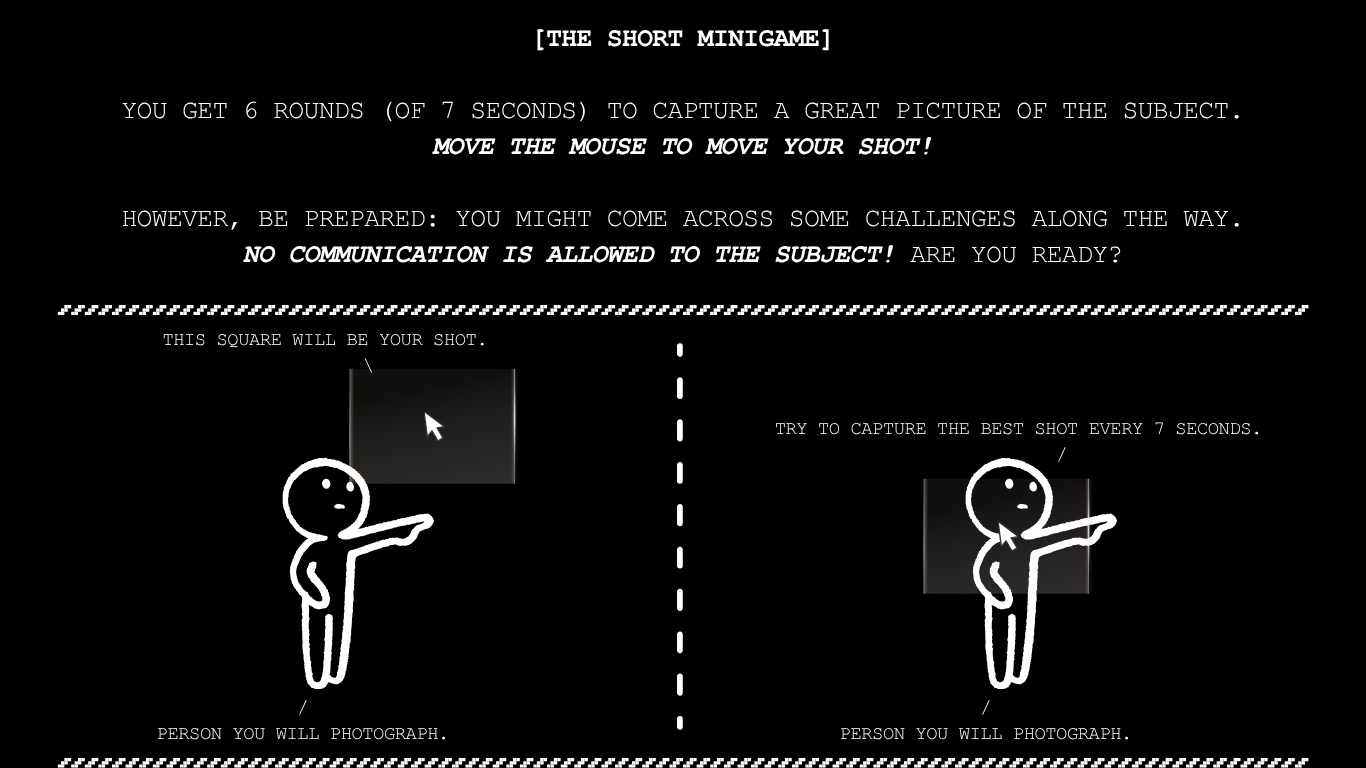
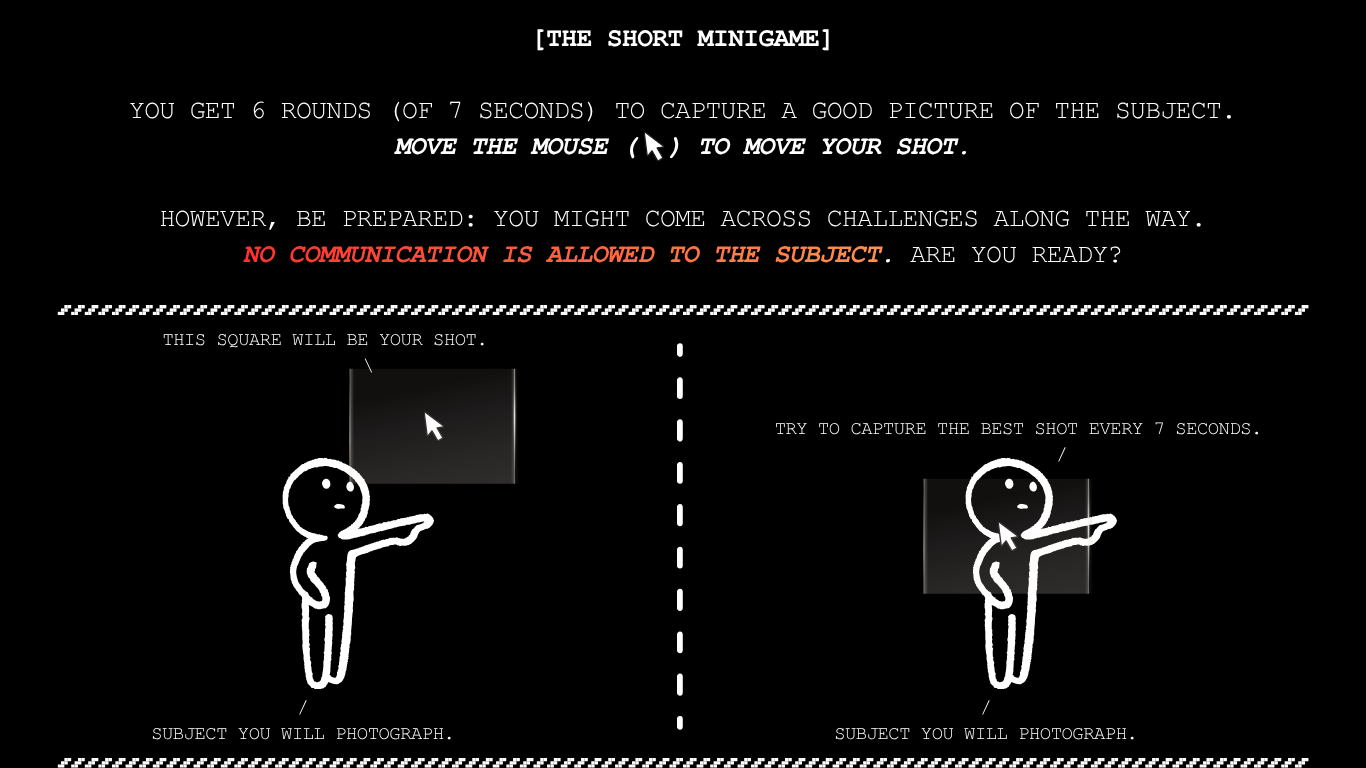
+ FINAL TOUCHES.

diff --git a/controller.css b/controller.css
@@ -205,3 +205,81 @@ button:hover{
 #nameInput::placeholder{
     opacity:0.3;
 }
+
+/* =========================
+   EINDSCHERM (zelfde als experiencer)
+========================= */
+#endScreen{
+    position:fixed;
+    inset:0;
+    background:black;
+    display:none;
+    flex-direction:column;
+    justify-content:center;
+    align-items:center;
+    z-index:20000;
+    transition:background-color 2s ease;
+}
+
+#endScreen:not(.hidden){
+    display:flex;
+}
+
+#endPolaroids{
+    display:grid;
+    grid-template-columns:repeat(3, auto);
+    justify-content:center;
+    align-items:center;
+    gap:20px;
+    margin-bottom:2.5rem;
+}
+
+.polaroid{
+    background:white;
+    padding:10px 10px 32px 10px;
+    box-shadow:0 4px 24px rgba(0,0,0,0.7), 0 1px 4px rgba(0,0,0,0.4);
+}
+
+.polaroid img{
+    display:block;
+    width:140px;
+    height:auto;
+    object-fit:contain;
+    filter:contrast(1.05) brightness(0.92);
+}
+
+#endPolaroids .polaroid{
+    position:static;
+    opacity:0;
+    animation:polaroidFadeIn 0.6s ease forwards;
+    transform:rotate(var(--rot));
+}
+
+@keyframes polaroidFadeIn{
+    0%{   opacity:0; transform:translateY(20px) rotate(var(--rot)); }
+    100%{ opacity:1; transform:translateY(0) rotate(var(--rot)); }
+}
+
+#endText{
+    color:black;
+    font-family:'Courier New', monospace;
+    font-size:1rem;
+    letter-spacing:0.3rem;
+    text-transform:uppercase;
+    text-align:center;
+    opacity:0;
+    transition:opacity 1.5s ease;
+}
+
+#endCredit{
+    color:black;
+    font-family:'Courier New', monospace;
+    font-size:0.75rem;
+    letter-spacing:0.2rem;
+    text-transform:uppercase;
+    text-align:center;
+    opacity:0;
+    transition:opacity 1.5s ease;
+    margin-top:0.5rem;
+    font-style:italic;
+}

diff --git a/controller.js b/controller.js
@@ -78,6 +78,10 @@ const introScreen = document.getElementById("introScreen");
 const waitScreen = document.getElementById("waitScreen");
 const controllerScreen = document.getElementById("controllerScreen");
 const doneScreen = document.getElementById("doneScreen");
+const endScreen = document.getElementById("endScreen");
+const endPolaroids = document.getElementById("endPolaroids");
+const endText = document.getElementById("endText");
+const endCredit = document.getElementById("endCredit");
 
 const messageInput = document.getElementById("messageInput");
 const messageBtn = document.getElementById("messageBtn");
@@ -138,9 +142,9 @@ const JITTER_PROFILES = {
 
     // --- 3 extremere ---
     snappy: { maxOffset: 0.18, velKick: 0.055, damp: 0.85, pull: 0.945, smooth: 0.30, intMin: 0.60, intMax: 1.30, changeMin: 600,  changeVar: 1100 },
-    extreme:{ maxOffset: 0.40, velKick: 0.040, damp: 0.90, pull: 0.958, smooth: 0.22, intMin: 0.80, intMax: 1.60, changeMin: 900,  changeVar: 1600 },
-    // MEGA EXTREEM: schiet super ver, grote trage uithalen naar de randen
-    mega:   { maxOffset: 0.62, velKick: 0.030, damp: 0.93, pull: 0.994, smooth: 0.13, intMin: 0.90, intMax: 1.90, changeMin: 1400, changeVar: 2200 }
+    extreme:{ maxOffset: 0.30, velKick: 0.038, damp: 0.90, pull: 0.952, smooth: 0.22, intMin: 0.70, intMax: 1.30, changeMin: 900,  changeVar: 1600 },
+    // MEGA EXTREEM: schiet ver, grote trage uithalen — maar iets rustiger dan eerst
+    mega:   { maxOffset: 0.46, velKick: 0.028, damp: 0.93, pull: 0.990, smooth: 0.13, intMin: 0.80, intMax: 1.55, changeMin: 1400, changeVar: 2200 }
 };
 
 let jitterProfile = "tipsy";
@@ -149,6 +153,64 @@ onValue(ref(db, "game/jitterLevel"), (snapshot) => {
     const val = snapshot.val();
     if (val && JITTER_PROFILES[val]) jitterProfile = val;
 });
+
+/* =========================
+   EINDSCHERM SYNC
+   Wanneer de experiencer de polaroids met caption + naam toont,
+   krijgt de controller exact hetzelfde beeld.
+========================= */
+let endScreenShown = false;
+
+onValue(ref(db, "game/endScreen"), (snapshot) => {
+    const data = snapshot.val();
+    if (!data || !data.snapshots || endScreenShown) return;
+    endScreenShown = true;
+    showControllerEndScreen(data);
+});
+
+function showControllerEndScreen(data) {
+    const snaps = Array.isArray(data.snapshots)
+        ? data.snapshots
+        : Object.values(data.snapshots);
+    const caption = data.caption || "you are seen by the others.";
+    const name = data.name || "the others";
+
+    controllerScreen.classList.add("hidden");
+    doneScreen.classList.add("hidden");
+
+    endScreen.classList.remove("hidden");
+    endScreen.style.backgroundColor = "black";
+
+    endPolaroids.innerHTML = "";
+    snaps.forEach((dataURL, i) => {
+        const el = document.createElement("div");
+        el.classList.add("polaroid");
+
+        const img = document.createElement("img");
+        img.src = dataURL;
+        el.appendChild(img);
+
+        const rot = (Math.random() * 10 - 5).toFixed(1);
+        el.style.setProperty("--rot", rot + "deg");
+        el.style.animationDelay = (i * 0.15) + "s";
+
+        endPolaroids.appendChild(el);
+    });
+
+    setTimeout(() => {
+        endScreen.style.backgroundColor = "white";
+    }, 100);
+
+    setTimeout(() => {
+        endText.innerText = caption;
+        endText.style.color = "black";
+        endText.style.opacity = "1";
+
+        endCredit.innerText = `from one of the others, ${name}.`;
+        endCredit.style.color = "black";
+        endCredit.style.opacity = "1";
+    }, 2500);
+}
 
 /* =========================
    SUGGESTIES

diff --git a/controller.html b/controller.html
@@ -11,7 +11,7 @@
 
 <!-- STAP 1: CAPTION -->
 <div id="messageScreen">
-    <p id="messagePrompt">you're about to take some photos of someone (a short minigame).<br>but first, choose or write a caption for their pictures —<br>something genuine. something fun. something sweet. something about them.<br><span id="messageHint">they'll read this. make it count.</span></p>
+    <p id="messagePrompt">you're about to take some photos of the other person (short minigame).<br>but first, choose or write your own caption for their pictures —<br>something genuine. something fun. something sweet. something about them.<br><span id="messageHint">they'll read this. make it count.</span></p>
     
     <input type="text" id="messageInput" maxlength="80" placeholder="write your own caption...">
 
@@ -64,7 +64,14 @@
 
 <!-- STAP 6: KLAAR -->
 <div id="doneScreen" class="hidden">
-    <p id="doneText">shot taken.<br>they'll see it soon.</p>
+    <p id="doneText">shots taken.<br>they'll see it soon.<br>waiting for them to finish...</p>
+</div>
+
+<!-- STAP 7: ZELFDE EINDSCHERM ALS DE EXPERIENCER -->
+<div id="endScreen" class="hidden">
+    <div id="endPolaroids"></div>
+    <p id="endText"></p>
+    <p id="endCredit"></p>
 </div>
 
 <script type="module" src="controller.js"></script>

diff --git a/script.js b/script.js
@@ -123,6 +123,7 @@ function resetFirebase() {
         w: window.innerWidth,
         h: window.innerHeight
     });
+    set(ref(db, "game/endScreen"), null);
 }
 
 /* =========================
@@ -518,7 +519,7 @@ function snapshotSequence() {
 function updateBoxSize() {
     const progress = round / (TOTAL_ROUNDS - 1);
     // Begint groot en wordt elke ronde flink kleiner (moeilijker).
-    const size = 50 - (50 - 10) * progress;
+    const size = 45 - (45 - 10) * progress;
     dodgeBox.style.width = size + "vw";
     dodgeBox.style.height = (size * 0.65) + "vw";
 
@@ -766,6 +767,13 @@ function showEndScreen() {
 
     const caption = window.__controllerMessage || "you are seen by the others.";
     const name = window.__photographerName || "the others";
+
+    // Stuur exact hetzelfde beeld naar de controller
+    set(ref(db, "game/endScreen"), {
+        snapshots: window.snapshots,
+        caption,
+        name
+    });
 
     setTimeout(() => {
         endScreen.style.backgroundColor = "white";

diff --git a/index.html b/index.html
@@ -52,7 +52,7 @@
     <div id="timer">7</div>
 
     <div id="preGameOverlay">
-        <div id="preGameText">[stand behind tape]</div>
+        <div id="preGameText">[stand behind the tape]</div>
         <div id="preGameTimer">7</div>
     </div>
 